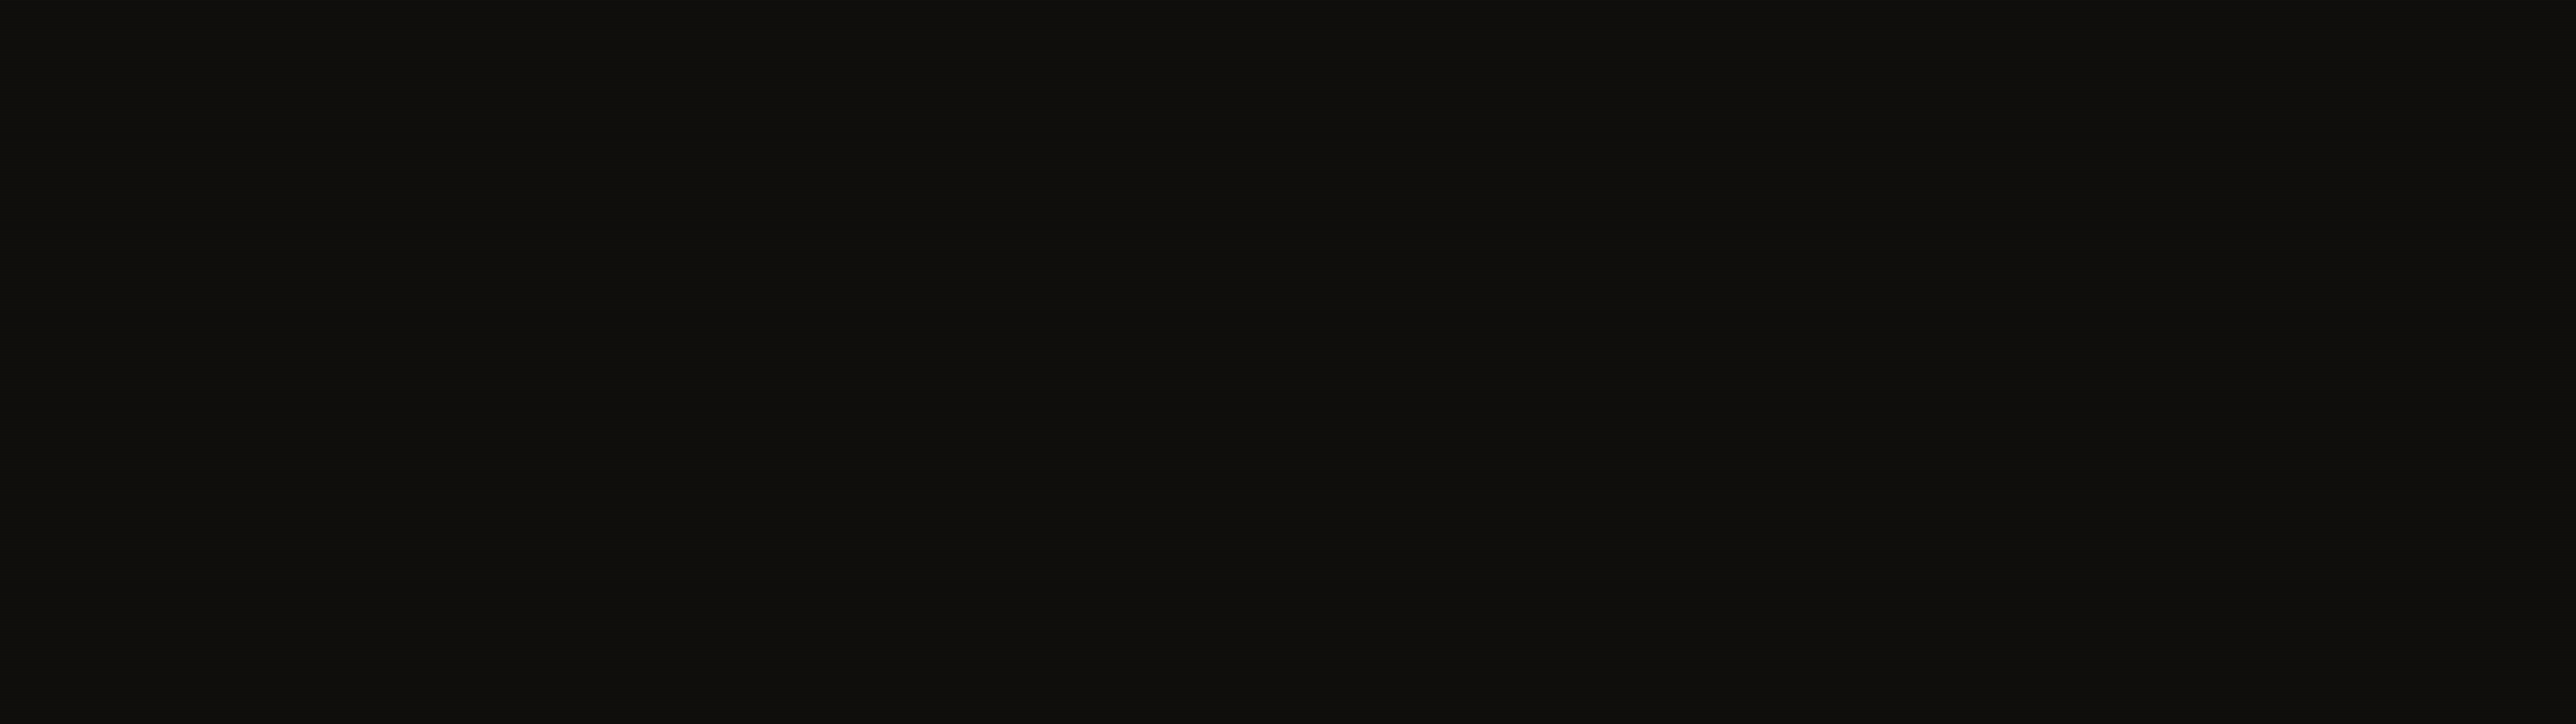
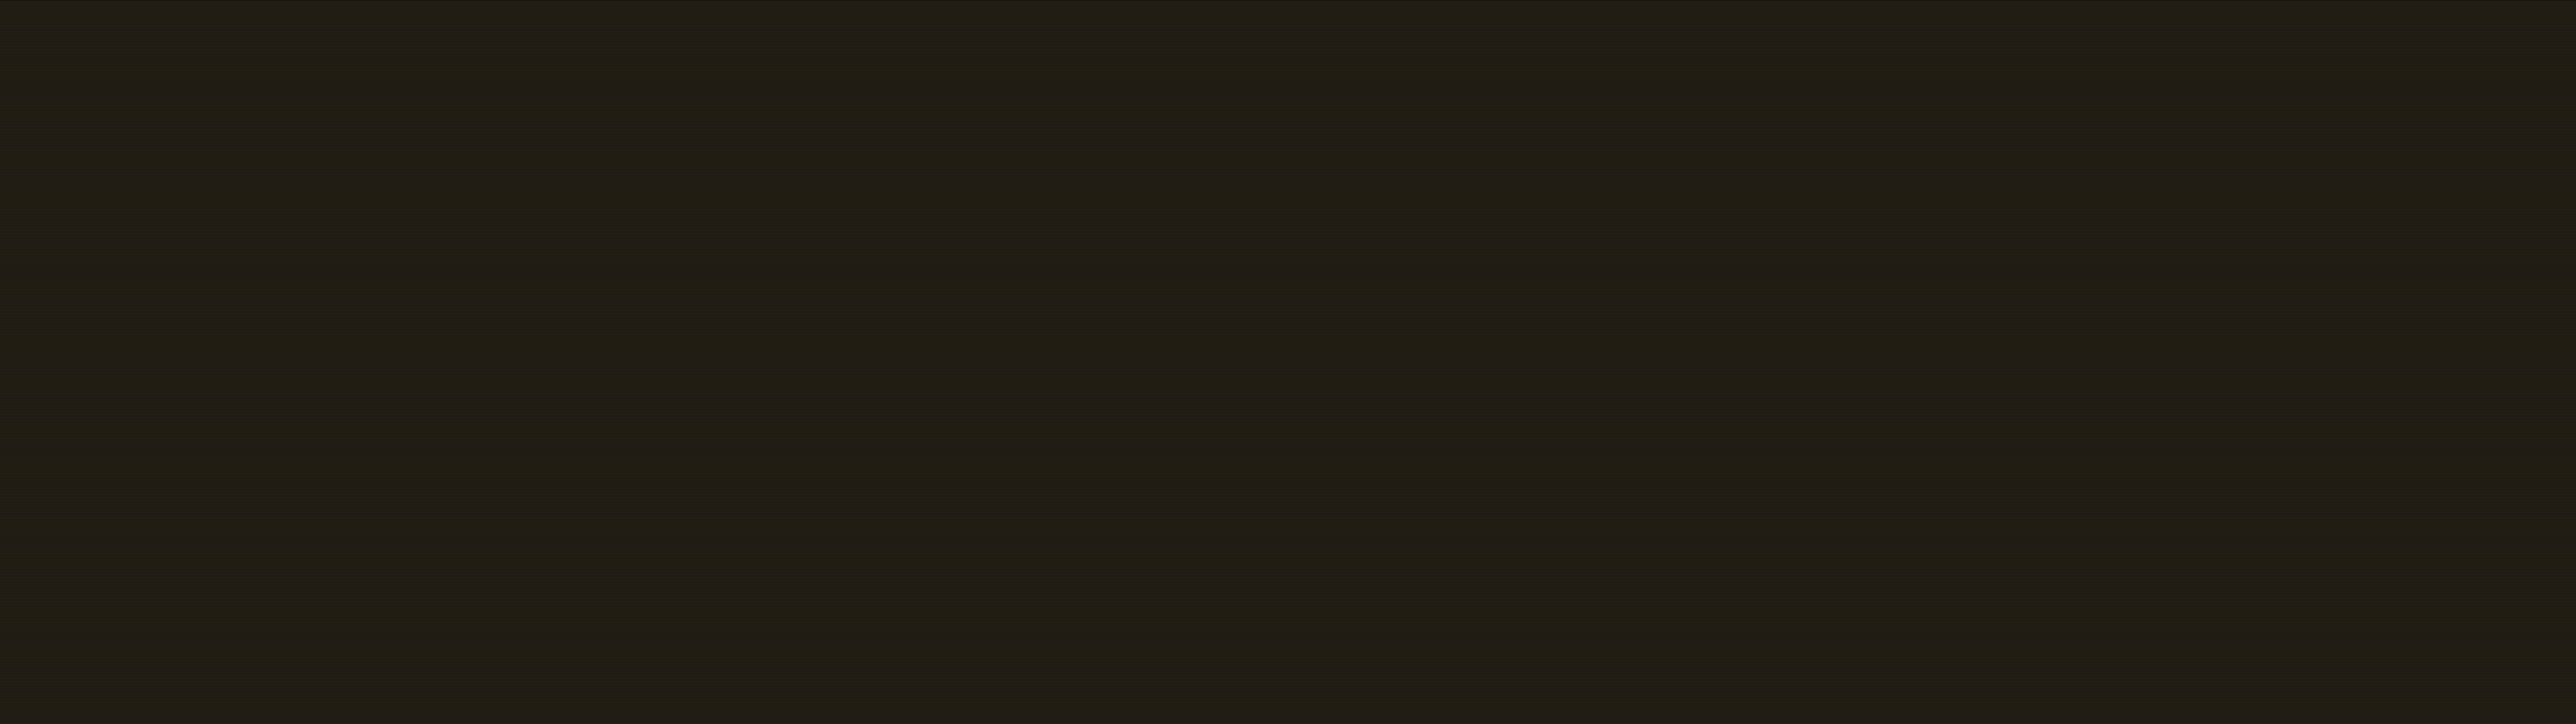
ph-boot: tuned scanlines (bright rows), zoom-aware overlay size, bootlines node tests
Agent: agent-fin-ph-boot

diff --git a/mods/ph-boot/main.js b/mods/ph-boot/main.js
@@ -9,7 +9,7 @@
 import { View, div, image, PathBuilder } from "gpui-kit";
 import { h_flex, v_flex } from "gpui-base";
 import {
-  props, shared, spaces, agents, terminals, layout, fonts, focused, updates,
+  props, shared, spaces, agents, terminals, layout, fonts, focused, updates, settings,
   closeOverlay, run, readTextFile,
 } from "herdr";
 import { P, FONT_UI, FONT_NUM, FONT_MARK, FONT_JP, FONT_TERM, KANJI, alpha } from "./lib/palette.js";
@@ -122,7 +122,11 @@ export default class PhBoot extends View {
     if (this.skip || this.closed) return root;
 
     const skip = (_e, cx) => { cx.stop_propagation(); this.close(true); };
-    const winW = this.size?.width ?? 1600, winH = this.size?.height ?? 900;
+    // on_size_change reports zoomed px (seen live: 504x288 for a 420x240 block at zoom 1.2); element sizes are unzoomed.
+    let z = 1;
+    try { z = Number(settings()?.zoom) || 1; } catch {}
+    const pxW = this.size?.width ?? 1600 * z, pxH = this.size?.height ?? 900 * z;
+    const winW = pxW / z, winH = pxH / z;
     const W = Math.max(560, Math.min(1120, winW - 48));
     const pad = 36;
     const nLines = Math.max(this.total ?? 6, this.lines.length);
@@ -162,7 +166,7 @@ export default class PhBoot extends View {
       .child(div().font_family(FONT_JP).text_size(40).text_color(P.amber).child(KANJI.boot))
       .child(v_flex().gap(4).font_family(FONT_UI).text_size(15).text_color(P.dim2)
         .child(h_flex().gap(8).child(div().text_color(P.fg).child("PHOSPHOR CONSOLE")).child("·").child("tty0"))
-        .child(div().child([`herdr ${this.version ?? ""}`.trim(), `layout ${lay}`, `${Math.round(winW)}×${Math.round(winH)}`].join(" · "))))
+        .child(div().child([`herdr ${this.version ?? ""}`.trim(), `layout ${lay}`, `${Math.round(pxW)}×${Math.round(pxH)}`].join(" · "))))
       .child(div().flex_1())
       .child(v_flex().items_end().font_family(FONT_NUM).text_size(26).line_height(1)
         .child(div().text_color(P.dim2).child(`BOOT 0x${this.bootId}`))

diff --git a/tools/make-boot-art.py b/tools/make-boot-art.py
@@ -27,19 +27,21 @@ def glow():
     out.putalpha(alpha)
     out.save(os.path.join(root, "mods/ph-boot/wordmark-glow.png"), optimize=True)
 
-def scanlines(w, h, period, line_alpha):
-    """Dark gaps every `period` px over transparent: the image only darkens what's under it slightly.
-    Fully opaque base is the pane colour so terminals keep their background."""
+def scanlines(w, h, period, line):
+    """Faint amber phosphor rows every `period` px on the terminal background colour.
+    Tuned live (Herdr, 2026-11): terminal_opacity's see-through is about (1 - opacity)^2 and
+    blends in linear light, so DARK gaps vanish under terminals at any useful opacity; BRIGHT
+    rows survive. With terminal_opacity 0.7 these rows lift the terminal background by ~3
+    levels (18 -> 21): visible up close, text contrast unchanged. Gutters show the raw rows."""
     base = (0x12, 0x11, 0x0e)
-    dark = tuple(max(0, round(c * (1 - line_alpha))) for c in base)
     img = Image.new("RGB", (w, h), base)
     d = ImageDraw.Draw(img)
     for y in range(period - 1, h, period):
-        d.line([(0, y), (w - 1, y)], fill=dark)
+        d.line([(0, y), (w - 1, y)], fill=line)
     return img
 
 if __name__ == "__main__":
     glow()
     w, h = (int(x) for x in (sys.argv[1:3] if len(sys.argv) > 2 else ("5120", "1440")))
-    scanlines(w, h, 3, 0.45).save(os.path.join(root, "backgrounds/phosphor-scanlines.png"), optimize=True)
+    scanlines(w, h, 3, (64, 52, 30)).save(os.path.join(root, "backgrounds/phosphor-scanlines.png"), optimize=True)
     print("ok")
